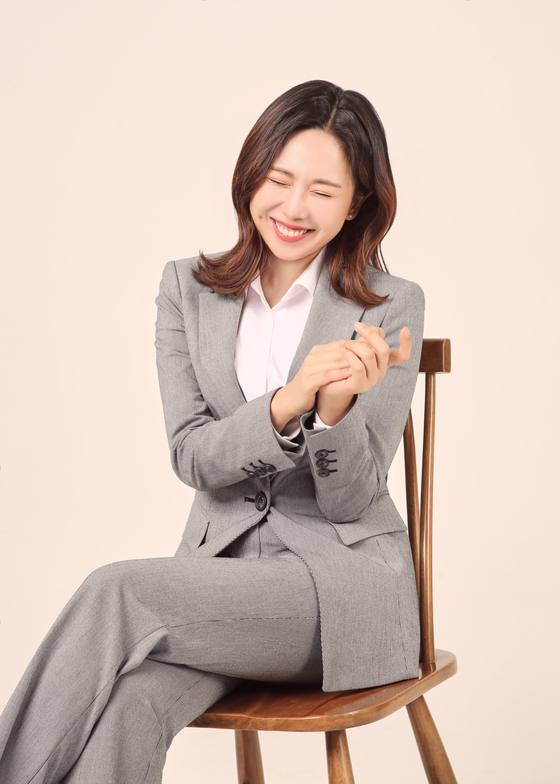
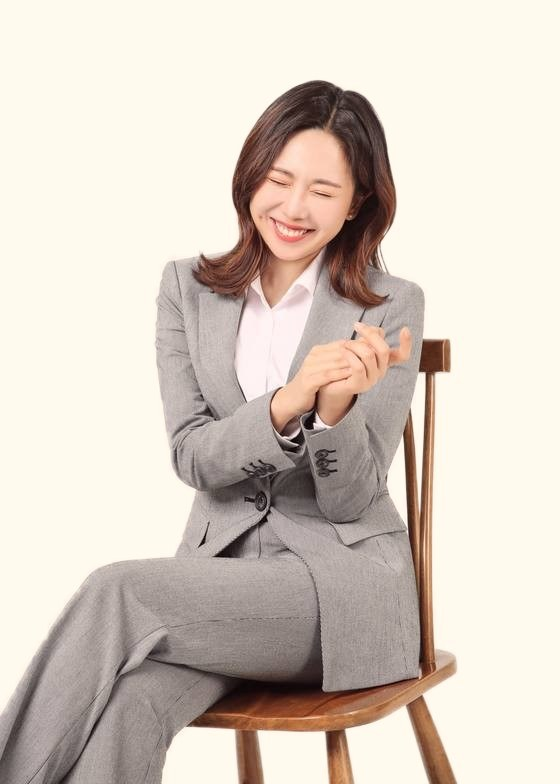
솔라 답변 반영: 상속 중심 첫 제목, 정면 사진·크림 배경, 재산 4구간 미선택, 연락 시간 안내, 폼 실제 발송 확인, 신청·전화·카톡·예약 클릭 측정, 휴대폰 메뉴 4개, 상담비 차감 안내, 회색 글씨 대비
Claude-Session: https://claude.ai/code/session_01KtL31Ae6qryqLFsnMsV62s

diff --git a/index.html b/index.html
@@ -508,6 +508,29 @@ footer .wrap{display:flex;flex-direction:column;gap:28px;padding-top:48px;paddin
   .person{padding:16px 20px 16px 16px}
   .person .ph{width:96px;height:96px}
 }
+
+/* ===== 솔라 답변 반영 ===== */
+.chips{gap:6px}
+.chip{padding:10px 2px;font-size:var(--fs-5);white-space:nowrap}
+.call-time{margin:0;text-align:center;font-size:var(--fs-5);color:var(--g);line-height:1.6}
+.call-time b{color:var(--o-text)}
+.call-time span{color:var(--body);font-size:var(--fs-6)}
+.hero-kicker{font-size:var(--fs-6);font-weight:700;color:var(--o-text);letter-spacing:0}
+.refund{display:block;margin-top:6px;color:var(--o-text);font-weight:700}
+/* 11. 작은 회색 글씨 대비 올림 */
+:root{--muted:#5F6470}
+.diag .agree small,.note{color:#5F6470}
+.f-info{color:#E2E3E8}
+.f-info .copy{color:#C9CAD0}
+.note,.diag-h span,.sizes-l{font-size:var(--fs-6)}
+/* 12. 서비스 카드: 신청 버튼 한 줄, 그 아래 링크 한 줄 */
+@media (max-width:760px){
+  .card .btn-o,.card .btn-w{flex:1 1 100%;text-align:center}
+  .card a.btn:not(.btn-o):not(.btn-w){padding:8px 12px 0 0}
+  .pc-nav{display:none}
+  nav{gap:4px 22px;overflow:visible}
+}
+.person .ph img{transform:none;object-position:center}
 </style>
 </head>
 <body>
@@ -524,10 +547,10 @@ footer .wrap{display:flex;flex-direction:column;gap:28px;padding-top:48px;paddin
     <nav aria-label="주 메뉴">
       <a href="/inheritance/">상속·증여</a>
       <a href="/bookkeeping/">기장·법인</a>
-      <a href="/transfer/">양도</a>
+      <a class="pc-nav" href="/transfer/">양도</a>
       <a href="#cases">업무사례</a>
-      <a href="#about">세무사 소개</a>
-      <a href="#column">칼럼</a>
+      <a class="pc-nav" href="#about">세무사 소개</a>
+      <a class="pc-nav" href="#column">칼럼</a>
       <a href="#location">오시는 길</a>
     </nav>
     <a class="call" href="tel:0315225757">
@@ -541,11 +564,11 @@ footer .wrap{display:flex;flex-direction:column;gap:28px;padding-top:48px;paddin
 <section class="hero">
   <div class="wrap">
     <div class="hero-l">
-      <span class="tag">안산 세무사 · 상속·증여·양도 · 개인·법인 기장</span>
-      <h1>평생 일군 재산도,<br>막 시작한 사업도<br><em>세금 걱정 없이</em></h1>
-      <p class="lead">상속·증여 신고와 세무조사 대응, 창업 첫 세무 세팅부터 매달 기장까지.<br class="br-pc"> 안산 세무사 설나현이 첫 상담부터 끝까지 직접 맡습니다.</p>
+      <span class="hero-kicker">안산 세무사 · 상속·증여·양도 · 개인·법인 기장</span>
+      <h1>평생 일군 재산,<br><em>세금으로 흩어지지 않게</em></h1>
+      <p class="lead">상속·증여·양도 신고부터 세무조사 대응까지,<br class="br-pc"> 안산 세무사 설나현이 첫 상담부터 끝까지 직접 맡습니다. 사업자 기장도 함께 봅니다.</p>
       <div class="person">
-        <span class="ph"><img src="/profile.jpg" alt="세무사 설나현" width="560" height="784"></span>
+        <span class="ph"><img src="/photo-front.jpg" alt="세무사 설나현" width="400" height="400"></span>
         <div>
           <strong>세무사 설나현 <span>대표</span></strong>
           <p>안산 토박이 · 세무 경력 11년차<br>대형 세무법인 본점 세무조사 대응 출신</p>
@@ -573,8 +596,9 @@ footer .wrap{display:flex;flex-direction:column;gap:28px;padding-top:48px;paddin
       </div>
       <span class="sizes-l">재산 규모 (상속·증여의 경우)</span>
       <div class="chips" id="chips">
-        <button type="button" class="chip" data-v="30억 미만">30억 미만</button>
-        <button type="button" class="chip on" data-v="30~50억">30~50억</button>
+        <button type="button" class="chip" data-v="10억 미만">10억 미만</button>
+        <button type="button" class="chip" data-v="10~30억">10~30억</button>
+        <button type="button" class="chip" data-v="30~50억">30~50억</button>
         <button type="button" class="chip" data-v="50억 이상">50억 이상</button>
       </div>
       <div class="fields">
@@ -583,6 +607,7 @@ footer .wrap{display:flex;flex-direction:column;gap:28px;padding-top:48px;paddin
       </div>
       <label class="agree"><input type="checkbox" name="agree" required> <span>상담 연락용 <a href="/privacy.html" target="_blank">개인정보 수집·이용</a> 동의</span></label>
       <button class="btn btn-o" type="submit">세무사 직접 전화 받기</button>
+      <p class="call-time"><b>다음 영업일</b>에 세무사가 직접 전화드려요<br><span>오전 10~11시 또는 오후 4시 반~5시 반</span></p>
       <p class="note">1차 진단 전화에서는 신고 실익이 있는지, 어떤 서비스가 맞는지 안내해 드립니다. 예상 세액은 방문 상담에서 자료를 보고 산출합니다.</p>
     </form>
   </div>
@@ -642,7 +667,7 @@ footer .wrap{display:flex;flex-direction:column;gap:28px;padding-top:48px;paddin
     <h3 class="steps-h">상속·증여 상담은 이렇게 진행됩니다</h3>
     <div class="steps">
       <div class="step"><span>01</span><strong>무료 1차 진단 전화</strong><p>재산 규모와 상황을 듣고, 상속세 신고 실익이 있는지와 무엇부터 챙기셔야 하는지 안내합니다.</p></div>
-      <div class="step"><span>02</span><strong>방문 상담 (유료)</strong><p>자료를 직접 보고 예상 세액, 부동산 평가 방법, 사전증여 합산까지 검토해 절세 방향을 정리합니다.</p></div>
+      <div class="step"><span>02</span><strong>방문 상담 (유료)</strong><p>자료를 직접 보고 예상 세액, 부동산 평가 방법, 사전증여 합산까지 검토해 절세 방향을 정리합니다. <b class="refund">신고를 맡기시면 상담비는 <span style="white-space:nowrap">수수료에서 빼 드려요.</span></b></p></div>
       <div class="step"><span>03</span><strong>패키지 선택 · 신고</strong><p>방문 상담에서 상황에 맞는 패키지를 안내해 드립니다. 가장 높은 단계는 신고 후 세무조사가 나오면 대응까지 보장합니다.</p></div>
     </div>
   </div>
@@ -661,7 +686,7 @@ footer .wrap{display:flex;flex-direction:column;gap:28px;padding-top:48px;paddin
       </div>
     </div>
     <div class="about-r">
-      <div class="y-big"><strong>11</strong><span>년차 세무사</span></div>
+      <div class="y-big"><strong>11</strong><span>년차 세무 경력</span></div>
       <h2>안산에서 나고 자란 세무사,<br>이웃의 세금을 내 일처럼 봅니다</h2>
       <p>안녕하세요, 세무사 설나현입니다. 어릴 적 뛰놀던 이 동네에서 이제는 이웃들의 세금을 돌보고 있습니다. 대형 세무법인 본점에서 세무조사 현장을 배우며 시작한 세금 일이 어느덧 11년이 되었습니다.</p>
       <p class="more">상속 상담을 할 때면 늘 제 부모님을 떠올립니다. 평생 아끼며 일군 재산이 세금으로 흩어지지 않도록, 딸의 마음으로 하나하나 챙깁니다.</p>
@@ -764,7 +789,7 @@ footer .wrap{display:flex;flex-direction:column;gap:28px;padding-top:48px;paddin
 
 <div class="mbar"><a class="m1" href="tel:0315225757">전화 상담</a><a class="m2" href="#diagnose">무료 1차 진단 신청</a></div>
 
-<div class="toast" id="toast" role="status">신청됐어요. 세무사가 직접 연락드릴게요.</div>
+<div class="toast" id="toast" role="status">신청됐어요. 다음 영업일에 세무사가 직접 전화드릴게요.</div>
 
 <script>
 (function(){try{if(sessionStorage.getItem('st_src'))return;var r=document.referrer,h='';try{h=r?new URL(r).hostname:''}catch(e){}
@@ -785,13 +810,22 @@ sessionStorage.setItem('st_src',n);sessionStorage.setItem('st_land',location.pat
   group('opts'); group('chips');
 })();
 function pick(v){document.querySelectorAll('#opts .opt').forEach(function(b){b.classList.toggle('on',b.dataset.v===v)});var s=document.getElementById('bar-type');for(var i=0;i<s.options.length;i++){if(s.options[i].text===v){s.selectedIndex=i}}}
+function track(name,params){try{window.dataLayer=window.dataLayer||[];dataLayer.push(Object.assign({event:name},params||{}))}catch(_){}}
+document.addEventListener('click',function(e){
+  var a=e.target.closest('a'); if(!a) return; var h=a.getAttribute('href')||'';
+  var where=a.closest('.mbar')?'하단 고정':a.closest('header')?'헤더':a.closest('.hero')?'첫 화면':a.closest('footer')?'푸터':'본문';
+  if(h.indexOf('tel:')===0) track('phone_click',{where:where});
+  else if(h.indexOf('pf.kakao.com')>-1) track('kakao_click',{where:where});
+  else if(h.indexOf('naver.me')>-1) track('booking_click',{where:where});
+  else if(/blog\.naver|youtube|instagram/.test(h)) track('channel_click',{where:where,to:h.split('/')[2]});
+});
 async function send(e,src){
   e.preventDefault();
   var f=e.target, btn=f.querySelector('button[type=submit]'), old=btn.textContent;
   var el=f.elements, name=el['name'].value.trim(), tel=el['tel'].value.trim(), type, size='-';
   if(src==='diag'){
     type=document.querySelector('#opts .on').dataset.v;
-    size=document.querySelector('#chips .on').dataset.v;
+    var cs=document.querySelector('#chips .on'); size=cs?cs.dataset.v:'선택 안 함';
     if(type==='기장·법인'||type==='양도 예정') size='-';
   } else { type=el['type'].value; }
   btn.disabled=true; btn.textContent='신청 중...';
@@ -801,10 +835,15 @@ async function send(e,src){
       headers:{'Content-Type':'application/json','Accept':'application/json'},
       body:JSON.stringify({'이름':name,'연락처':tel,'상담 분야':type,'재산 규모':size,'신청 위치':src==='diag'?'1차 진단 카드':'하단 신청 바','유입 경로':(function(){try{return sessionStorage.getItem('st_src')||'알 수 없음'}catch(e){return '알 수 없음'}})(),'처음 본 페이지':(function(){try{return sessionStorage.getItem('st_land')||'/'}catch(e){return '/'}})(),'_subject':'[솔라택스] 상담 신청 - '+name+' ('+type+')','_captcha':'false'})
     });
-    if(res.ok){
+    var data={}; try{data=await res.json()}catch(_){}
+    var ok=res.ok && String(data.success)!=='false';
+    if(ok){
+      track('consult_submit',{form:src,field:type,size:size});
+      try{ if(window.wcs && wcs.cnv){ var _nasa={}; _nasa["cnv"]=wcs.cnv("4","1"); wcs_do(_nasa); } }catch(_){}
       f.reset();
+      document.querySelectorAll('#chips .chip').forEach(function(c){c.classList.remove('on')});
       var t=document.getElementById('toast'); t.classList.add('show'); setTimeout(function(){t.classList.remove('show')},3500);
-    } else { alert('신청 중 오류가 발생했습니다. 031-522-5757로 전화 주세요.'); }
+    } else { track('consult_fail',{form:src}); alert('신청이 접수되지 않았어요. 번거로우시겠지만 031-522-5757로 전화 주세요.'); }
   }catch(err){ alert('네트워크 오류가 발생했습니다. 031-522-5757로 전화 주세요.'); }
   finally{ btn.disabled=false; btn.textContent=old; }
   return false;
